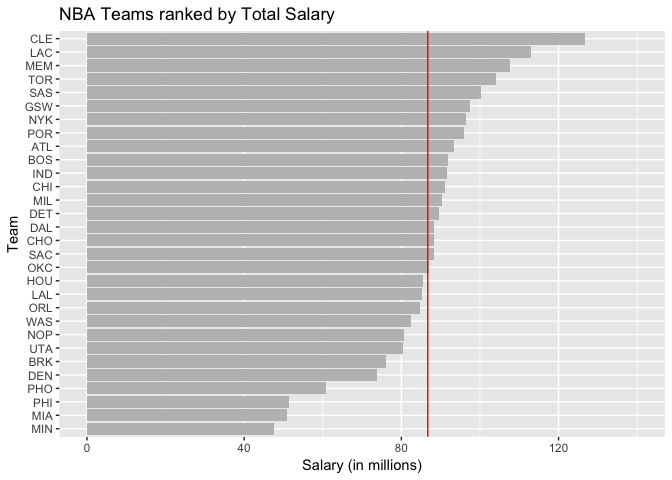
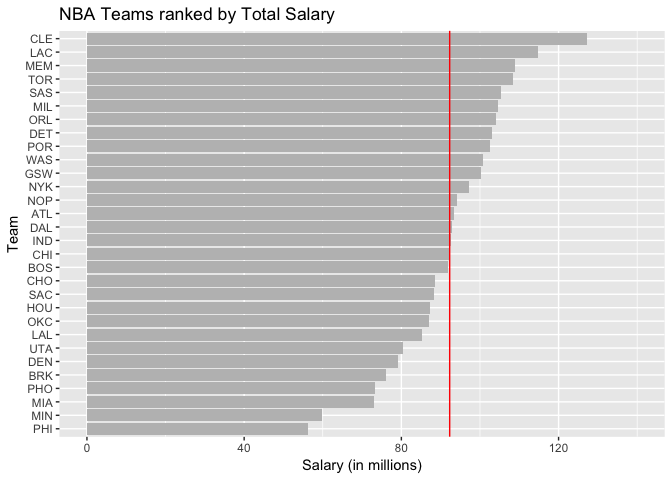
update report

diff --git a/report/Workout1-Yitong-Bai.md b/report/Workout1-Yitong-Bai.md
@@ -10,32 +10,48 @@ library("ggplot2")
     ## Warning: package 'ggplot2' was built under R version 3.4.4
 
 ``` r
-teams = read.csv("/Users/Cora/Desktop/133/Workout1/Data/nba2018-teams.csv")
-sorted = teams[order(teams$salary, decreasing = TRUE), ]
-ggplot(sorted, aes(x = reorder(sorted$team, sorted$salary), y = sorted$salary))+ 
+library("dplyr")
+```
+
+    ## Warning: package 'dplyr' was built under R version 3.4.4
+
+    ## 
+    ## Attaching package: 'dplyr'
+
+    ## The following objects are masked from 'package:stats':
+    ## 
+    ##     filter, lag
+
+    ## The following objects are masked from 'package:base':
+    ## 
+    ##     intersect, setdiff, setequal, union
+
+``` r
+nba= read.csv("~/Desktop/133/workout1/data/nba2018-teams.csv")
+ggplot(data = nba, aes(x = reorder(team, sum_salary), y = sum_salary))+ 
   geom_bar(stat = 'identity', fill = "grey")+ coord_flip()+
   labs(x = "Team", y = "Salary (in millions)", title = "NBA Teams ranked by Total Salary")+ 
   scale_y_continuous(limits = c(0,140), breaks = seq(0,120, by =40))+
-  geom_hline(yintercept = mean(sorted$salary), col ="red")
+  geom_hline(yintercept = mean(nba$sum_salary), col ="red")
 ```
 
 ![](Workout1-Yitong-Bai_files/figure-markdown_github/unnamed-chunk-2-1.png)
 
 ``` r
-ggplot (sorted, aes(x = reorder(sorted$team, sorted$points), y = sorted$points)) +
+ggplot (data = nba, aes(x = reorder(team, sum_points), y = sum_points)) +
   geom_bar(stat = 'identity', fill = "grey")+ coord_flip()+ labs(x = "Team", y = "Points", title = "NBA Teams ranked by Total Points") + 
   scale_y_continuous(limits = c(0,10000),breaks = seq(2500,10000, by =1500)) +
-  geom_hline(yintercept = mean(sorted$points), col ="red")
+  geom_hline(yintercept = mean(nba$sum_points), col ="red")
 ```
 
 ![](Workout1-Yitong-Bai_files/figure-markdown_github/unnamed-chunk-3-1.png)
 
 ``` r
-ggplot(sorted, aes(x = reorder(sorted$team, sorted$efficiency), y = sorted$efficiency))+ 
+ggplot(data = nba, aes(x = reorder(team, sum_efficiency), y = sum_efficiency))+ 
   geom_bar(stat = 'identity', fill = "grey")+ coord_flip()+
   labs(x = "Team", y = "Efficiency", title = "NBA Teams ranked by Efficiency")+ 
    scale_y_continuous(limits = c(0,350), breaks = seq(0,350, by =50))+
-  geom_hline(yintercept = mean(sorted$efficiency), col ="red")
+  geom_hline(yintercept = mean(nba$sum_efficiency), col ="red")
 ```
 
 ![](Workout1-Yitong-Bai_files/figure-markdown_github/unnamed-chunk-4-1.png)
@@ -43,8 +59,8 @@ ggplot(sorted, aes(x = reorder(sorted$team, sorted$efficiency), y = sorted$effic
 My own index is called points3 per year, which means the average number of points3 that a player get. My reasoning is that points3 is a good measurement of a player's skills and preciseness. However, the total number of points3 may be affected by the experience (the older the player is, the more likely he/she has more points3). Therefore, use points3/experience is a good indicator.
 
 ``` r
-avg_points3 = sorted$points3 / sorted$experience
- ggplot(sorted, aes(x = reorder(sorted$team, avg_points3), y = avg_points3))+ 
+avg_points3 = nba$sum_points3 / nba$sum_experience
+ ggplot(data = nba, aes(x = reorder(nba$team, avg_points3), y = avg_points3))+ 
   geom_bar(stat = 'identity', fill = "grey")+ coord_flip()+
   labs(x = "Team", y = "Average Points3 Per Year", title = "NBA Teams ranked by Points3 Per Year")+ 
   geom_hline(yintercept = mean(avg_points3), col ="red")
